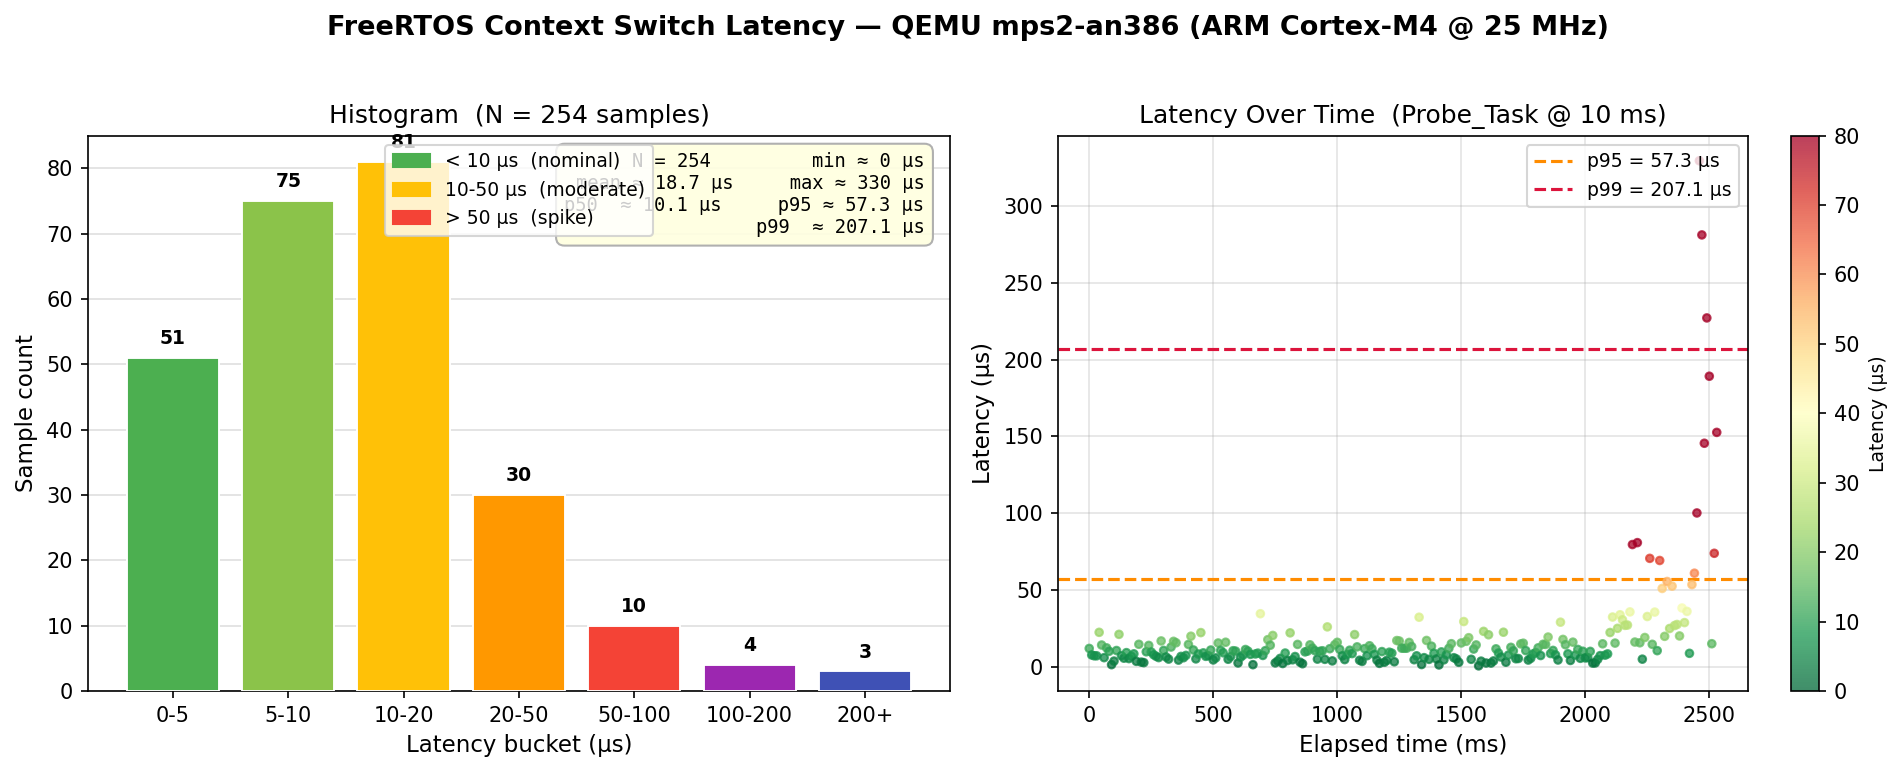
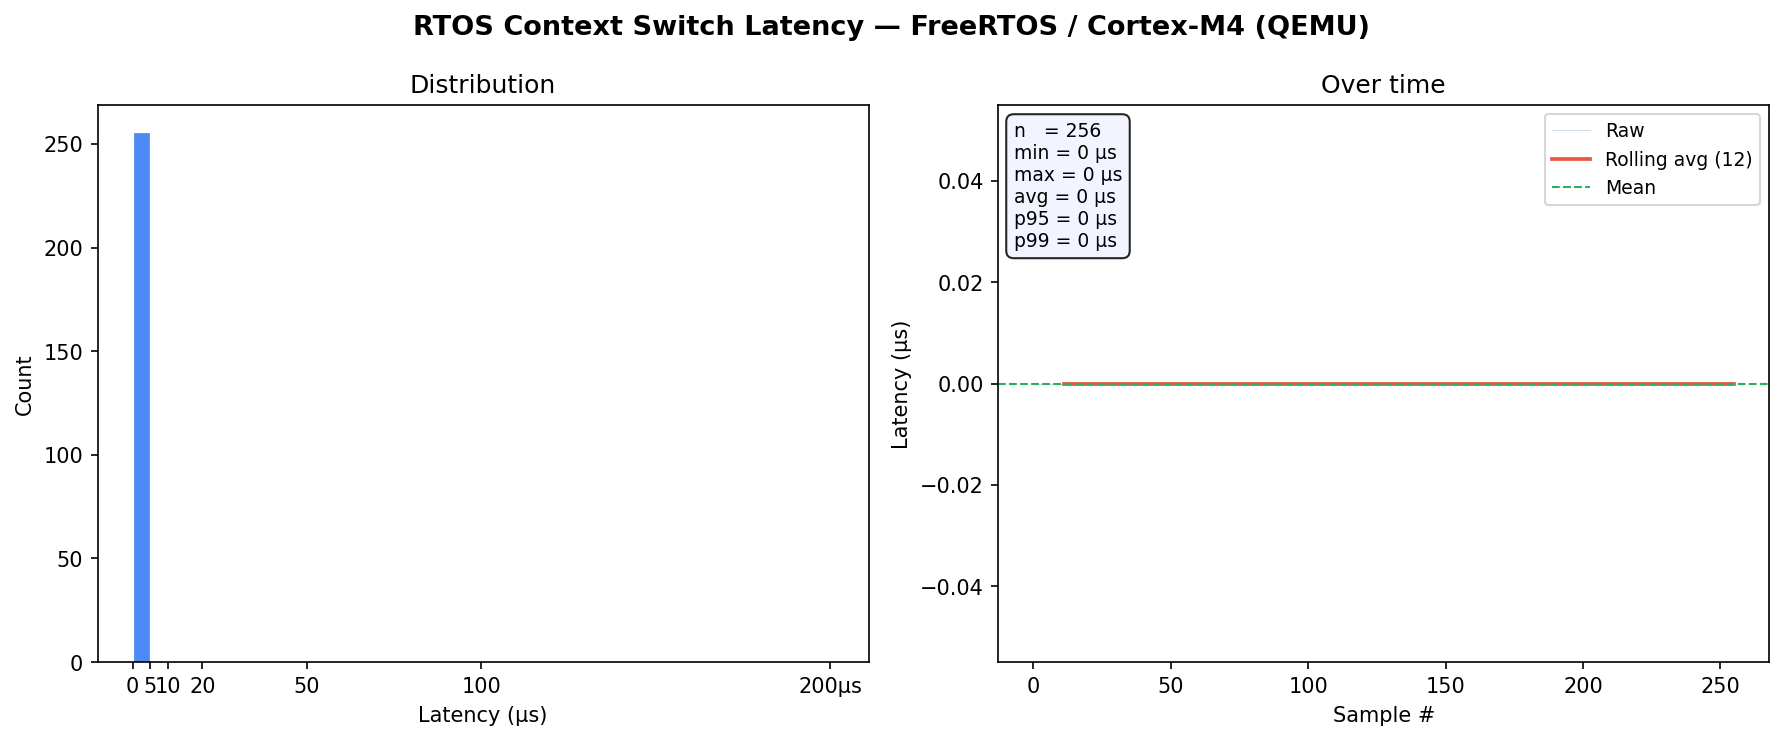
docs: replace synthetic histogram with real QEMU measurement

diff --git a/scripts/plot_latency.py b/scripts/plot_latency.py
@@ -21,8 +21,11 @@ from pathlib import Path
 
 
 def parse_csv(text):
+    # Normalize line endings: UART output through WSL produces \r\r\n;
+    # Python text-mode then converts that to \n\n, breaking the regex.
+    text = re.sub(r'\r', '', text)
     match = re.search(
-        r"LATENCY_CSV_START\r?\nsample_us\r?\n(.*?)LATENCY_CSV_END",
+        r"LATENCY_CSV_START\nsample_us\n(.*?)LATENCY_CSV_END",
         text, re.DOTALL
     )
     if not match:
@@ -66,7 +69,8 @@ def plot_matplotlib(samples, output):
                  fontsize=13, fontweight="bold")
 
     # Histogram
-    bins = [0, 5, 10, 20, 50, 100, 200, max(samples) + 1]
+    # Ensure last bin edge is always > 200 (monotonic even when all samples == 0)
+    bins = [0, 5, 10, 20, 50, 100, 200, max(max(samples) + 1, 201)]
     ax1.hist(samples, bins=bins, color="#4C8BF5", edgecolor="white", linewidth=0.6)
     ax1.set_xlabel("Latency (µs)"); ax1.set_ylabel("Count")
     ax1.set_title("Distribution")
@@ -115,7 +119,7 @@ def main():
     if not args.logfile:
         parser.print_help(); sys.exit(1)
 
-    samples = parse_csv(Path(args.logfile).read_text(errors="replace"))
+    samples = parse_csv(Path(args.logfile).read_text(errors="replace", newline=""))
     print(f"Parsed {len(samples)} samples.")
     print_ascii_histogram(samples)
 
